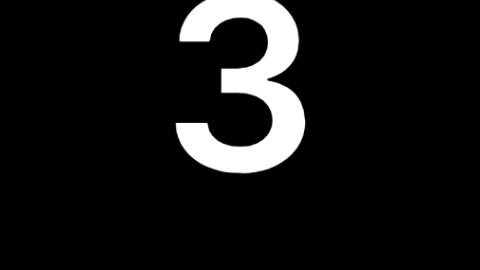
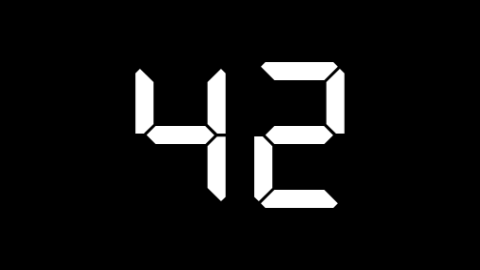
feat(visuals): Update some thumbnails

Changed region(s): [[0.2812, 0.0, 0.7188, 0.7704]]

diff --git a/difracta-visuals/scripts/thumbnail-page.ts b/difracta-visuals/scripts/thumbnail-page.ts
@@ -7,7 +7,8 @@ import {
 } from "@difracta/core";
 import { createCompositor, defineVisual } from "@difracta/render";
 
-import { SAMPLE_IMAGE, SAMPLE_VIDEO, builtInCatalog } from "../src/index.ts";
+import { builtInCatalog } from "../src/index.ts";
+import { THUMBNAIL_VIDEO_ENTRY, thumbnailSetups } from "./thumbnail-setups.ts";
 
 /**
  * The browser half of `npm run thumbnails`: renders one definition the
@@ -16,22 +17,27 @@ import { SAMPLE_IMAGE, SAMPLE_VIDEO, builtInCatalog } from "../src/index.ts";
  * a Filter gets the same with a gray checkerboard under it, so every
  * Filter is shown over the same picture. The checkerboard carries a ring,
  * since a displaced checkerboard would look like the checkerboard itself.
- * A Visual with a Media Parameter gets the sample image or video as a
- * Media item, served from the data URL the script passes, and its frames
- * are paced by the browser's own, since the file loads and a video plays
- * on the browser's clock. A Visual that draws text is paced the same way,
- * since its Bundled Font loads, from a data URL too. The result is the
- * canvas as PNG.
+ * A Visual with a Media Parameter gets a picture or a clip of the Bundled
+ * Media as a Media item, served from the data URL the script passes, and
+ * its frames are paced by the browser's own, since the file loads and a
+ * video plays on the browser's clock. A Visual that draws text is paced
+ * the same way, since its Bundled Font loads, from a data URL too. A
+ * definition with a setup (`thumbnail-setups.ts`) gets its Parameter
+ * values, its length and its say on the Cue. The result is the canvas as
+ * PNG.
  */
 export type ThumbnailKind = "visual" | "filter";
 
-/** The sample files as data URLs, by the Media item id they get. */
-export type SampleMedia = Readonly<
-  Record<"sample_image" | "sample_video", string>
+/** The picture and the clip as data URLs, by the Media item id they get. */
+export type ThumbnailMedia = Readonly<
+  Record<"thumbnail_image" | "thumbnail_video", string>
 >;
 
 /** The Bundled Fonts' files as data URLs, by file name. */
 export type FontFiles = Readonly<Record<string, string>>;
+
+/** How long a definition runs before its picture, unless its setup or the command says. */
+const DEFAULT_SECONDS = 3;
 
 /** How long a Media or text Visual may keep waiting for its picture past its run. */
 const MEDIA_WAIT_MS = 5_000;
@@ -70,6 +76,7 @@ const checkerboard = defineVisual({
 const catalog = new Catalog({
   visuals: [...builtInCatalog.visuals(), checkerboard],
   filters: builtInCatalog.filters(),
+  media: builtInCatalog.media(),
   fonts: builtInCatalog.fonts(),
 });
 const registry = createBuiltInRegistry(catalog);
@@ -84,12 +91,13 @@ function installation(kind: ThumbnailKind, id: string): Document {
   let document = emptyDocument("Thumbnail");
   document = run(document, "output.create", { id: "out", name: "Thumbnail" });
   document = run(document, "media.create", {
-    id: "sample_image",
-    path: SAMPLE_IMAGE,
+    id: "thumbnail_image",
+    path: "thumbnail.png",
   });
   document = run(document, "media.create", {
-    id: "sample_video",
-    path: SAMPLE_VIDEO,
+    id: "thumbnail_video",
+    kind: "bundled",
+    bundled: THUMBNAIL_VIDEO_ENTRY,
   });
   document = run(document, "surface.create", {
     id: "sur",
@@ -123,8 +131,17 @@ function installation(kind: ThumbnailKind, id: string): Document {
         document = run(document, "address.set", {
           address: `layer/${layerId}/param/${name}`,
           value:
-            parameter.accepts === "image" ? "sample_image" : "sample_video",
+            parameter.accepts === "image"
+              ? "thumbnail_image"
+              : "thumbnail_video",
         });
+    for (const [name, value] of Object.entries(
+      thumbnailSetups[visualId]?.parameters ?? {},
+    ))
+      document = run(document, "address.set", {
+        address: `layer/${layerId}/param/${name}`,
+        value,
+      });
   };
   if (kind === "visual") visual("thumbnail", id);
   else {
@@ -161,23 +178,28 @@ const nextFrame = (): Promise<number> =>
 export async function renderThumbnail(
   kind: ThumbnailKind,
   id: string,
-  seconds: number,
+  seconds: number | null,
   width: number,
   height: number,
-  media: SampleMedia,
+  media: ThumbnailMedia,
   fonts: FontFiles,
 ): Promise<string> {
   const canvas = document.createElement("canvas");
   canvas.width = width;
   canvas.height = height;
   const compositor = createCompositor(canvas, catalog, {
-    mediaUrl: (mediaId) => media[mediaId as keyof SampleMedia],
+    mediaUrl: (mediaId) => media[mediaId as keyof ThumbnailMedia],
     fontUrl: (file) => fonts[file],
   });
   const scene = installation(kind, id);
-  const frames = Math.round(seconds * 60);
+  const setup = thumbnailSetups[id];
+  const frames = Math.round(
+    (seconds ?? setup?.seconds ?? DEFAULT_SECONDS) * 60,
+  );
   const cue =
-    kind === "visual" ? catalog.visual(id)?.cues?.[0]?.key : undefined;
+    kind === "visual" && setup?.cue !== false
+      ? catalog.visual(id)?.cues?.[0]?.key
+      : undefined;
   const paced = loads(kind, id);
   const started = performance.now();
   let rendered = false;

diff --git a/difracta-visuals/scripts/thumbnails.ts b/difracta-visuals/scripts/thumbnails.ts
@@ -4,7 +4,7 @@
 //
 //   npm run thumbnails -w @difracta/visuals            every definition
 //   npm run thumbnails -w @difracta/visuals koi-pond   some of them
-//   … --seconds=5                                       run longer first
+//   … --seconds=5                                       run this long first
 //
 // Needs Chromium for Playwright (`npx playwright install chromium`).
 import { mkdir, readFile, writeFile } from "node:fs/promises";
@@ -14,27 +14,29 @@ import { build } from "esbuild";
 import { chromium } from "playwright";
 
 import {
-  SAMPLE_IMAGE,
-  SAMPLE_VIDEO,
   builtInCatalog,
+  bundledRoot,
   fontsRoot,
-  sampleMediaRoot,
   thumbnailFile,
   thumbnailsRoot,
 } from "../src/index.ts";
 import type {
   FontFiles,
-  SampleMedia,
   ThumbnailKind,
+  ThumbnailMedia,
 } from "./thumbnail-page.ts";
+import {
+  THUMBNAIL_IMAGE_ENTRY,
+  THUMBNAIL_VIDEO_ENTRY,
+} from "./thumbnail-setups.ts";
 
 const ORIGIN = "https://thumbnails.invalid/";
 const WIDTH = 480;
 const HEIGHT = 270;
-const DEFAULT_SECONDS = 3;
 
 const wanted = new Set<string>();
-let seconds = DEFAULT_SECONDS;
+/** Null leaves each definition the length its setup asks for, or the page's own. */
+let seconds: number | null = null;
 for (const argument of process.argv.slice(2)) {
   const match = /^--seconds=(\d+(?:\.\d+)?)$/.exec(argument);
   if (match?.[1] !== undefined) seconds = Number(match[1]);
@@ -72,20 +74,24 @@ const bundle = await build({
 const script = bundle.outputFiles[0]?.text;
 if (script === undefined) throw new Error("The page did not bundle.");
 
-/** The sample files and the Bundled Fonts, as data URLs the page can load without a server. */
+/** The Bundled Media shown and the Bundled Fonts, as data URLs the page can load without a server. */
 async function dataUrl(file: URL, type: string): Promise<string> {
   const bytes = await readFile(file);
   return `data:${type};base64,${bytes.toString("base64")}`;
 }
-const media: SampleMedia = {
-  sample_image: await dataUrl(
-    new URL(SAMPLE_IMAGE, sampleMediaRoot),
+const clip = builtInCatalog.mediaEntry(THUMBNAIL_VIDEO_ENTRY);
+if (clip === undefined) {
+  console.error(
+    `The Bundled Media has no “${THUMBNAIL_VIDEO_ENTRY}”; run npm run media:fetch.`,
+  );
+  process.exit(1);
+}
+const media: ThumbnailMedia = {
+  thumbnail_image: await dataUrl(
+    new URL(`thumbnails/${thumbnailFile(THUMBNAIL_IMAGE_ENTRY)}`, bundledRoot),
     "image/png",
   ),
-  sample_video: await dataUrl(
-    new URL(SAMPLE_VIDEO, sampleMediaRoot),
-    "video/webm",
-  ),
+  thumbnail_video: await dataUrl(new URL(clip.file, bundledRoot), "video/webm"),
 };
 const fonts: FontFiles = Object.fromEntries(
   await Promise.all(

diff --git a/difracta-visuals/src/visuals/siren-beacon.ts b/difracta-visuals/src/visuals/siren-beacon.ts
@@ -8,6 +8,7 @@ export const sirenBeacon = defineShaderVisual({
   name: "Siren Beacon",
   description:
     "A rotating emergency beacon: broad soft beams in alternating colors sweep around a pivot and flare the whole Surface as each one points down.",
+  recommended: true,
   notes:
     "An alarm for builds and drops, built to be held on a pad: the beams are already turning on the first frame, from a random angle each press. Beams cones of light turn around Horizontal and Vertical Position, alternating Color A and Color B (an odd count puts two of Color A side by side), each Beam Width degrees wide with a soft edge, dimming with distance from the pivot. Every time a beam points straight down, toward the room, it flares: Flare washes the whole Surface in that beam's color for as long as the beam faces down, so narrow beams give short sharp flashes and wide ones long swells. Rotation Speed is turns per second, negative for the other way, and integrates, so a fader can ride it through zero; at zero the beacon holds still and costs nothing. Costs one full-Surface pass per frame with one cone per beam. Normal blend mode over a dark Scene is a warning light; Additive tints whatever is below. Pair it with Strobe in white on the same pad for a siren drop.",
   parameters: {

diff --git a/difracta-visuals/scripts/thumbnail-setups.ts b/difracta-visuals/scripts/thumbnail-setups.ts
@@ -1,0 +1,30 @@
+/**
+ * What a thumbnail shows where a definition's defaults would make a poor
+ * picture of it: Parameter values set over the defaults, how long it runs
+ * and whether its first Cue fires. Most definitions need none.
+ */
+export interface ThumbnailSetup {
+  /** Parameter values set on the Layer, by Parameter name. */
+  readonly parameters?: Readonly<Record<string, unknown>>;
+  /** How long it runs before the picture is taken, unless the command says. */
+  readonly seconds?: number;
+  /** False keeps the first Cue from firing, for a Visual that shows best at rest. */
+  readonly cue?: boolean;
+}
+
+/**
+ * The Bundled Media entries the Image and Video thumbnails show. The bundle
+ * has clips only, so Image shows the thumbnail of one as its picture.
+ */
+export const THUMBNAIL_IMAGE_ENTRY = "laser-fan-sweep-loop";
+export const THUMBNAIL_VIDEO_ENTRY = "wire-polyhedron-loop";
+
+export const thumbnailSetups: Readonly<Record<string, ThumbnailSetup>> = {
+  video: { seconds: 4.5 },
+  text: { parameters: { size: 0.55 } },
+  // At rest: a Cue this close to the picture would catch the digits rolling.
+  counter: {
+    parameters: { font: "dseg7-classic", start: 42, size: 0.6 },
+    cue: false,
+  },
+};

diff --git a/difracta-visuals/src/visuals/conveyor.ts b/difracta-visuals/src/visuals/conveyor.ts
@@ -5,6 +5,7 @@ export const conveyor = defineShaderVisual({
   name: "Conveyor",
   description:
     "Horizontal lanes carry solid packets of light across the Surface, neighbouring lanes running opposite ways in two colors.",
+  recommended: true,
   notes:
     "A mechanical, rhythmic backdrop: every lane is a belt, even lanes run one way in Color A and odd lanes the other way in Color B. Lanes is how many belts stack down the Surface and Packets how many packets each belt carries across it, so Lanes 8 with Packets 5 is coarse and legible from far away while 24 and 10 is a fine texture. Packet Fill is the lit share of each packet's slot, from thin dashes to almost solid belts. Edge Softness feathers the gap between belts. Speed integrates, so it can be swept live and stopped without a jump, and a stopped Conveyor costs nothing. Additive blend mode makes crossings between Layers glow. Costs one full-Surface pass per frame while moving.",
   parameters: {

diff --git a/difracta-visuals/src/visuals/strobe.ts b/difracta-visuals/src/visuals/strobe.ts
@@ -5,6 +5,7 @@ export const strobe = defineShaderVisual({
   name: "Strobe",
   description:
     "Flashes between two colors at a steady rate, each flash a set number of milliseconds long; Rate changes never skip a beat.",
+  recommended: true,
   notes:
     "A two-state light: On Color for Flash Duration at the start of every cycle, Off Color the rest of the time. Off Color defaults to transparent, so the Layer disappears between flashes and whatever is below shows through; a dark Off Color turns it into a hard on/off wall. Rate is flashes per second and integrates, so sweeping it live speeds up or slows down without a jump. Phase Offset shifts where in the cycle the flash sits, for two Strobe Layers alternating on two Surfaces from one Rate. Flash Duration above the cycle length keeps it on. It costs one full-Surface shader pass only on the frames where the state flips.",
   parameters: {

diff --git a/difracta-visuals/src/index.ts b/difracta-visuals/src/index.ts
@@ -224,7 +224,7 @@ export function thumbnailFile(id: string): string {
 /**
  * The sample Media the package ships: one small white-on-black picture and
  * one short white-on-black clip, written by `npm run sample-media`, which
- * the thumbnail harness and the GPU suite show through Image and Video.
+ * the GPU suite shows through Image and Video.
  */
 export const sampleMediaRoot = new URL("../media/", import.meta.url);
 export const SAMPLE_IMAGE = "sample.png";

diff --git a/difracta-visuals/scripts/sample-media.ts b/difracta-visuals/scripts/sample-media.ts
@@ -1,7 +1,6 @@
 // Writes the sample Media the Visuals package ships in `media/`: one small
-// white-on-black PNG and one short white-on-black VP9 webm, for the Image
-// and Video thumbnails and the GPU pixel tests. Run it when the pictures
-// should change:
+// white-on-black PNG and one short white-on-black VP9 webm, for the GPU
+// pixel tests. Run it when the pictures should change:
 //
 //   npm run sample-media -w @difracta/visuals
 //

diff --git a/docs/ARCHITECTURE.md b/docs/ARCHITECTURE.md
@@ -478,12 +478,16 @@ Thumbnails are rendered, not drawn: `npm run thumbnails` in `difracta-visuals`
 runs each definition through the compositor in a headless Chromium (Playwright),
 a Visual on a full-frame Surface for a few seconds with its first Cue fired a
 few times near the end, a Filter over a gray checkerboard with a ring, and
-writes one PNG per definition. **Why rendered:** a thumbnail is then what the
-definition does, and adding a definition costs one command rather than an
-illustration; Filters over the same picture compare with each other, and the
-ring shows displacements a checkerboard alone would hide. Every command's
-`apply` receives it, so `layer.visual` and `layer.filter` can refuse an unknown
-id and check values.
+writes one PNG per definition. Image and Video show Bundled Media, the picture
+being a clip's thumbnail. Where the defaults would make a poor picture, the
+definition has a setup in `scripts/thumbnail-setups.ts`: Parameter values over
+the defaults, how long it runs, and whether the Cue fires (Counter rests, since
+a Cue that close to the picture catches its digits rolling). **Why rendered:** a
+thumbnail is then what the definition does, and adding a definition costs one
+command rather than an illustration; Filters over the same picture compare with
+each other, and the ring shows displacements a checkerboard alone would hide.
+Every command's `apply` receives it, so `layer.visual` and `layer.filter` can
+refuse an unknown id and check values.
 
 A Parameter is declared once, in the definition, as one of six kinds: number
 (with min, max, step and unit), color (four components from 0 to 1), choice
